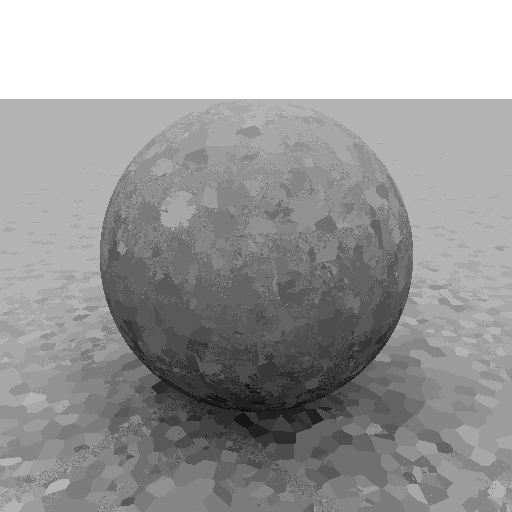
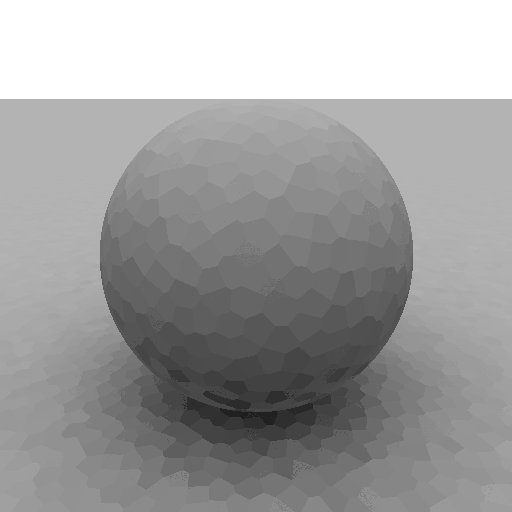
bugs fixed

diff --git a/irrad/src/main/java/org/irrad/Cache.java b/irrad/src/main/java/org/irrad/Cache.java
@@ -8,6 +8,12 @@ class Cache {
         final Vec3 normal;
         final Vec3 light;
 
+        enum Axis {
+            X, Y, Z
+        }
+
+        Axis axis;
+
         CacheEntry left = null;
         CacheEntry right = null;
 
@@ -36,40 +42,50 @@ class Cache {
         mCos = aCos;
     }
 
-    private CacheEntry search(Vec3 position, Vec3 normal, CacheEntry p, Vec3 A, Vec3 B) {
+    private CacheEntry search(Vec3 position, Vec3 normal, CacheEntry p) {
         if (p == null)
             return null;
-        Vec3 AB = Vec3.sub(B, A);
-        Vec3 leftB;
-        Vec3 rightA;
-        if (Math.abs(AB.x) >= Math.abs(AB.y) && Math.abs(AB.x) >= Math.abs(AB.z)) {
-            leftB = new Vec3(p.position.x, B.y, B.z);
-            rightA = new Vec3(p.position.x, A.y, A.z);
-        } else if (Math.abs(AB.y) >= Math.abs(AB.z)) {
-            leftB = new Vec3(B.x, p.position.y, B.z);
-            rightA = new Vec3(A.x, p.position.y, A.z);
-        } else {
-            leftB = new Vec3(B.x, B.y, p.position.z);
-            rightA = new Vec3(A.x, A.y, p.position.z);
+
+        boolean leftSide = false;
+        boolean rightSide = false;
+        if (p.left == null && p.right == null) {
+            if (Vec3.dot(p.normal, normal) < mCos || Vec3.sqDistance(p.position, position) > mRange * mRange)
+                return null;
+            return p;
         }
+        switch (p.axis) {
+        case X:
+            leftSide = position.x <= p.position.x + mRange;
+            rightSide = position.x >= p.position.x - mRange;
+            break;
+        case Y:
+            leftSide = position.y <= p.position.y + mRange;
+            rightSide = position.y >= p.position.y - mRange;
+            break;
+        case Z:
+            leftSide = position.z <= p.position.z + mRange;
+            rightSide = position.z >= p.position.z - mRange;
+            break;
+        }
+
         CacheEntry left = null;
         CacheEntry right = null;
-        if (Vec3.inside(position, mRange, A, leftB)) {
+        if (leftSide) {
             if (p.left == null)
                 left = null;
             else {
-                left = search(position, normal, p.left, A, leftB);
+                left = search(position, normal, p.left);
                 if (left != null && (Vec3.dot(left.normal, normal) < mCos
                         || Vec3.sqDistance(left.position, position) > mRange * mRange))
                     left = null;
             }
         }
-        if (Vec3.inside(position, mRange, rightA, B)) {
+        if (rightSide) {
             if (p.right == null)
                 right = null;
             else {
                 // System.out.println(" right");
-                right = search(position, normal, p.right, rightA, B);
+                right = search(position, normal, p.right);
                 if (right != null && (Vec3.dot(right.normal, normal) < mCos
                         || Vec3.sqDistance(right.position, position) > mRange * mRange))
                     right = null;
@@ -82,6 +98,8 @@ class Cache {
             ret = left;
         else if (Vec3.sqDistance(left.position, position) < Vec3.sqDistance(right.position, position))
             ret = left;
+        else
+            ret = right;
         if (Vec3.dot(p.normal, normal) < mCos || Vec3.sqDistance(p.position, position) > mRange * mRange)
             return ret;
         if (ret == null)
@@ -92,9 +110,7 @@ class Cache {
     }
 
     public Vec3 get(Vec3 position, Vec3 normal) {
-        Vec3 A = new Vec3(-1000000);
-        Vec3 B = new Vec3(1000000);
-        CacheEntry ret = search(position, normal, parent, A, B);
+        CacheEntry ret = search(position, normal, parent);
         if (ret == null)
             return null;
         return ret.light;
@@ -104,15 +120,19 @@ class Cache {
         Vec3 AB = Vec3.sub(B, A);
         Vec3 leftB;
         Vec3 rightA;
-        if (Math.abs(AB.x) >= Math.abs(AB.y) && Math.abs(AB.x) >= Math.abs(AB.z)) {
+        if (Math.abs(AB.x) >= Math.abs(AB.y) && Math.abs(AB.x) >= Math.abs(AB.z) && e.axis == null
+                || e.axis == CacheEntry.Axis.X) {
             leftB = new Vec3(p.position.x, B.y, B.z);
             rightA = new Vec3(p.position.x, A.y, A.z);
-        } else if (Math.abs(AB.y) >= Math.abs(AB.z)) {
+            p.axis = CacheEntry.Axis.X;
+        } else if (Math.abs(AB.y) >= Math.abs(AB.z) && e.axis == null || e.axis == CacheEntry.Axis.Y) {
             leftB = new Vec3(B.x, p.position.y, B.z);
             rightA = new Vec3(A.x, p.position.y, A.z);
+            p.axis = CacheEntry.Axis.Y;
         } else {
             leftB = new Vec3(B.x, B.y, p.position.z);
             rightA = new Vec3(A.x, A.y, p.position.z);
+            p.axis = CacheEntry.Axis.Z;
         }
         if (Vec3.inside(e.position, A, leftB)) {
             if (p.left == null)

diff --git a/irrad/src/main/java/org/irrad/Renderer.java b/irrad/src/main/java/org/irrad/Renderer.java
@@ -12,15 +12,40 @@ import org.irrad.graphics.*;
 
 class Renderer {
     final int mCacheCapacity;
-    final int mDivisionX = 4;
-    final int mDivisionY = 4;
-    final int mSamples = 16;
+    final int mDivisionX = 8;
+    final int mDivisionY = 8;
+    final int mSamples = 256;
 
     final double mCacheRadius = 0.1;
-    final double mCacheCos = 0.9;
+    final double mCacheCos = 0.8;
 
     private Scene mScene;
     private int maxDepth;
+
+    private Integer index = 0;
+    private Object[] jobs;
+    Cache cache;
+    Collection<RenderJob> completejobs;
+
+    private class RenderThread extends Thread {
+
+        @Override
+        public void run() {
+            while (true) {
+                // RenderJob j = jobs.iterator().next();
+                RenderJob j = null;
+                synchronized (index) {
+                    if (index >= jobs.length)
+                        return;
+                    j = (RenderJob) jobs[index];
+                    index++;
+                }
+                doJob(j, 1, cache);
+                completejobs.add(j);
+            }
+        }
+
+    }
 
     /**
      * 
@@ -64,11 +89,11 @@ class Renderer {
     private Vec3 collect(Vec3 origin, Vec3 normal, int depth, Cache cache) {
         // Only diffuse surfaces are supported
         Vec3 sum = Vec3.zero();
-        if (depth >= maxDepth)
-            return sum;
         Vec3 l = cache.get(origin, normal);
         if (l != null)
-            return l;
+            return l; // Vec3.zero();
+        if (depth >= maxDepth)
+            return sum;
         Sampler sampler = new DiffuseSampler(mDivisionX, mDivisionY);
         Set<Sampler.Sample> samples = sampler.getSample(mSamples, origin, normal);
         Iterator<Sampler.Sample> itr = samples.iterator();
@@ -78,7 +103,9 @@ class Renderer {
             doJob(job, depth + 1, cache);
             sum = Vec3.add(sum, Vec3.mul(job.rgb, sample.weight));
         }
-        cache.add(origin, normal, sum);
+        if (Vec3.inside(origin, new Vec3(-10), new Vec3(10)))
+            cache.add(origin, normal, sum);
+        // sum = new Vec3(1, 0, 0);
         return sum;
     }
 
@@ -97,10 +124,9 @@ class Renderer {
 
     public Image render(Camera camera, int width, int height) {
         Image ret = new Image(width, height);
-        Cache cache = new Cache(mCacheCapacity, mCacheRadius, mCacheCos);
+        cache = new Cache(mCacheCapacity, mCacheRadius, mCacheCos);
         ArrayList<RenderJob> shuffledRenderjobs = new ArrayList<>();
-        Collection<RenderJob> completejobs = (Collection<RenderJob>) Collections
-                .synchronizedCollection(new ArrayList<RenderJob>());
+        completejobs = (Collection<RenderJob>) Collections.synchronizedCollection(new ArrayList<RenderJob>());
         for (int w = 0; w < width; ++w) {
             for (int h = 0; h < height; ++h) {
                 RenderJob job = new RenderJob(camera.getRay(width, height, w, h), w, h);
@@ -108,22 +134,26 @@ class Renderer {
             }
         }
         Random rnd = new Random();
-        Object[] jobs = shuffledRenderjobs.toArray();
-        // RenderJob[] jobs = (RenderJob[]) arr;
+        jobs = shuffledRenderjobs.toArray();
         for (int i = 0; i < jobs.length; i++) {
             int j = rnd.nextInt(jobs.length);
             Object s = jobs[i];
             jobs[i] = jobs[j];
             jobs[j] = s;
         }
-        int index = 0;
-        while (index < jobs.length) {
-            // RenderJob j = jobs.iterator().next();
 
-            RenderJob j = (RenderJob) jobs[index];
-            index++;
-            doJob(j, 1, cache);
-            completejobs.add(j);
+        ArrayList<Thread> threads = new ArrayList<>();
+        for (int i = 0; i < 1; i++) {
+            Thread thr = new RenderThread();
+            threads.add(thr);
+            thr.start();
+        }
+        for (Thread thr : threads) {
+            try {
+                thr.join();
+            } catch (InterruptedException e) {
+                e.printStackTrace();
+            }
         }
         for (RenderJob job : completejobs) {
             ret.setPixel(job.x, job.y, job.rgb);

diff --git a/irrad/src/main/java/org/irrad/App.java b/irrad/src/main/java/org/irrad/App.java
@@ -12,7 +12,7 @@ public class App {
     public static void main(String[] args) {
         Scene scene = Scene.BasicScene();
         Camera camera = new Camera(new Vec3(2, 2, -2), new Vec3(0, 1, 0));
-        Renderer renderer = new Renderer(scene, 2);
+        Renderer renderer = new Renderer(scene, 2, 50000);
         Timer timer = new Timer();
         Image img = renderer.render(camera, 512, 512);
         System.out.print(timer.elapsed() + "s");
